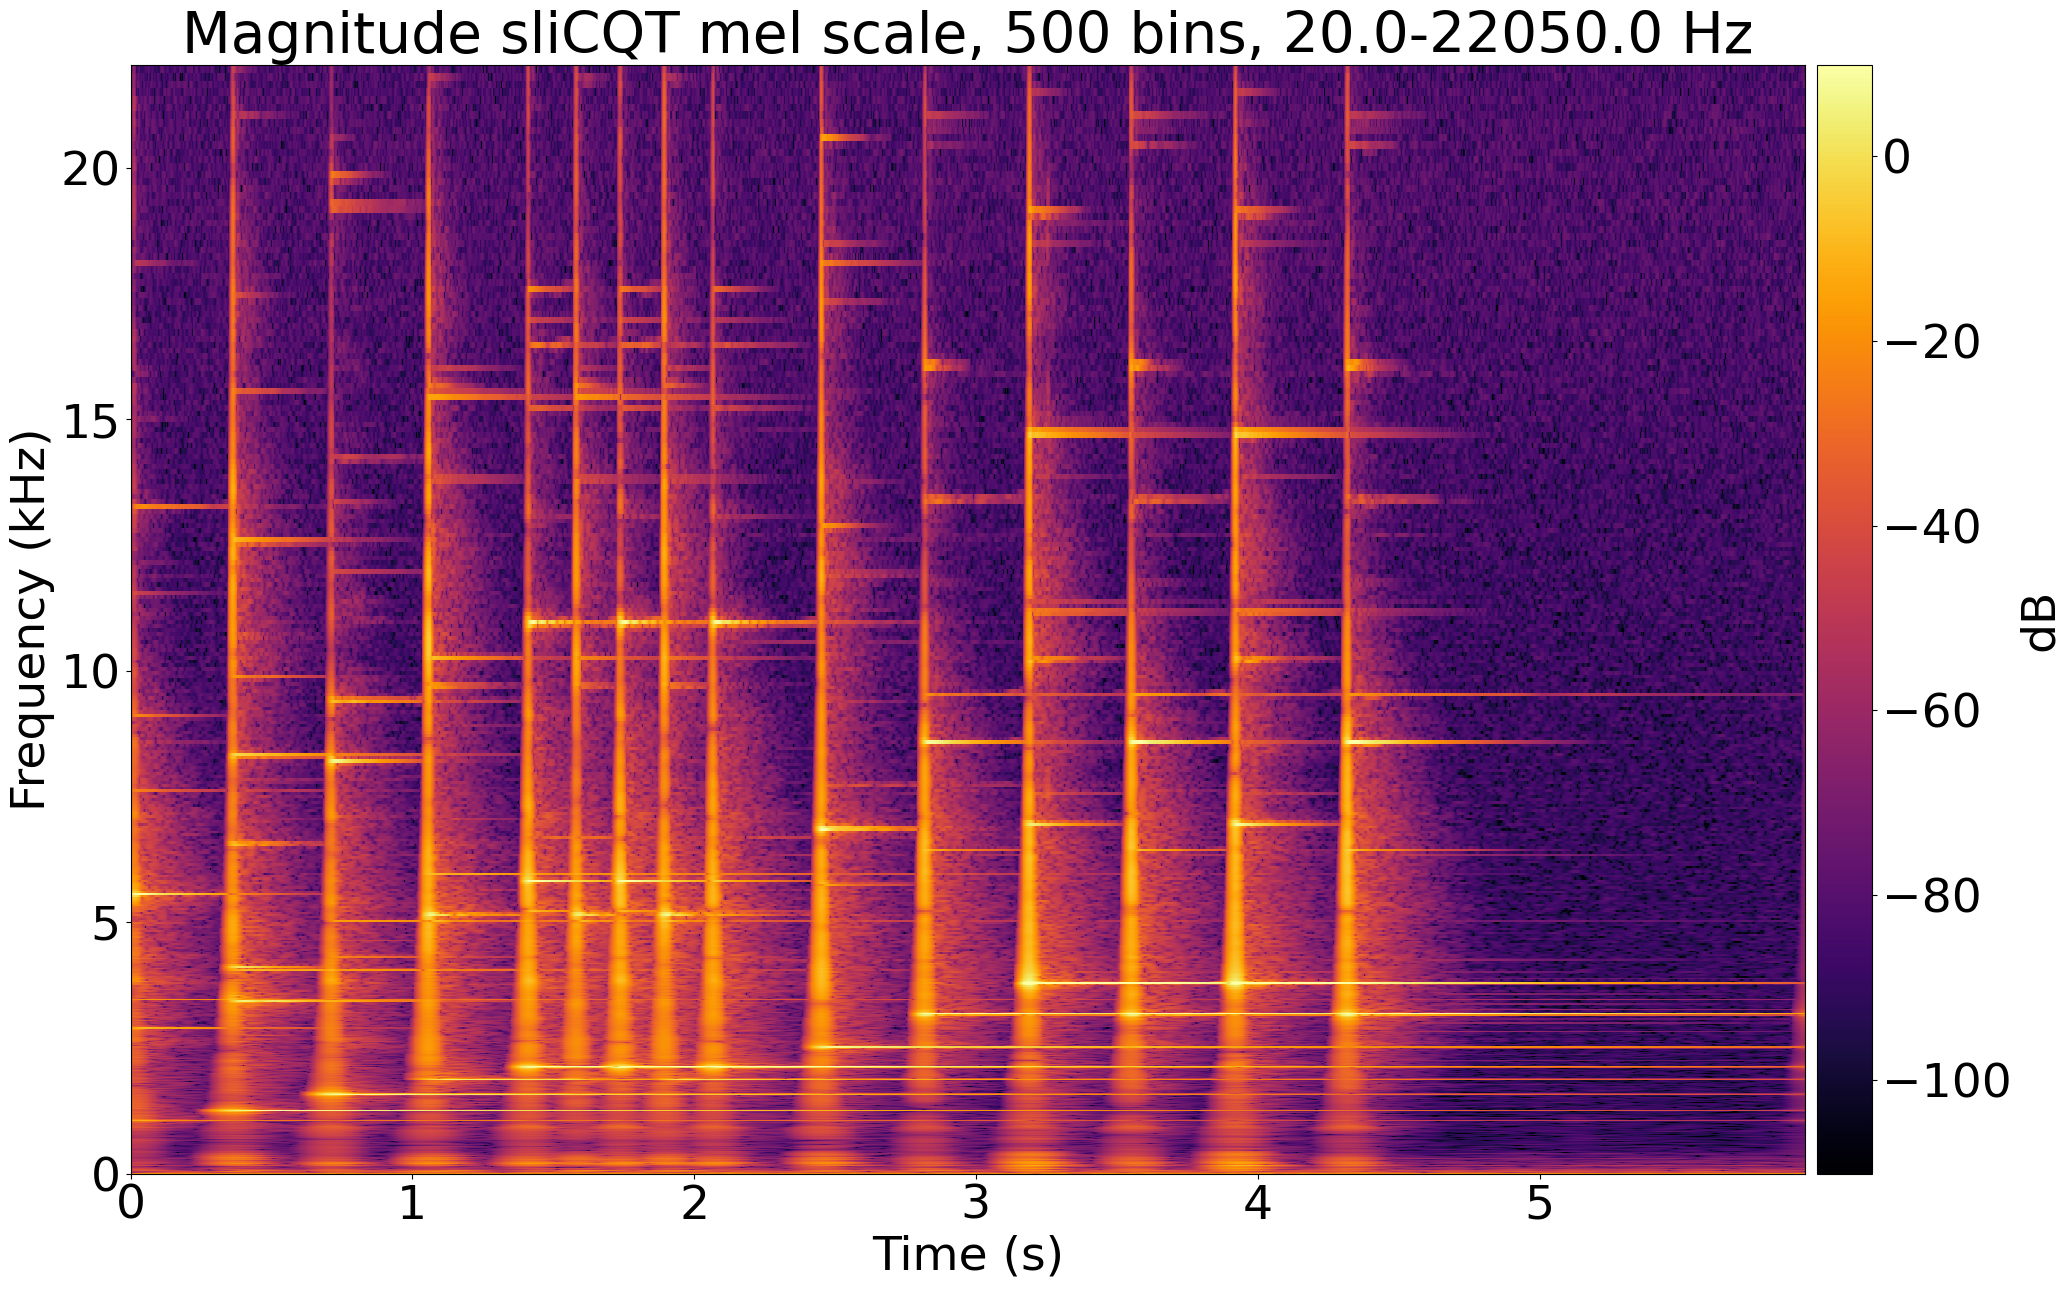
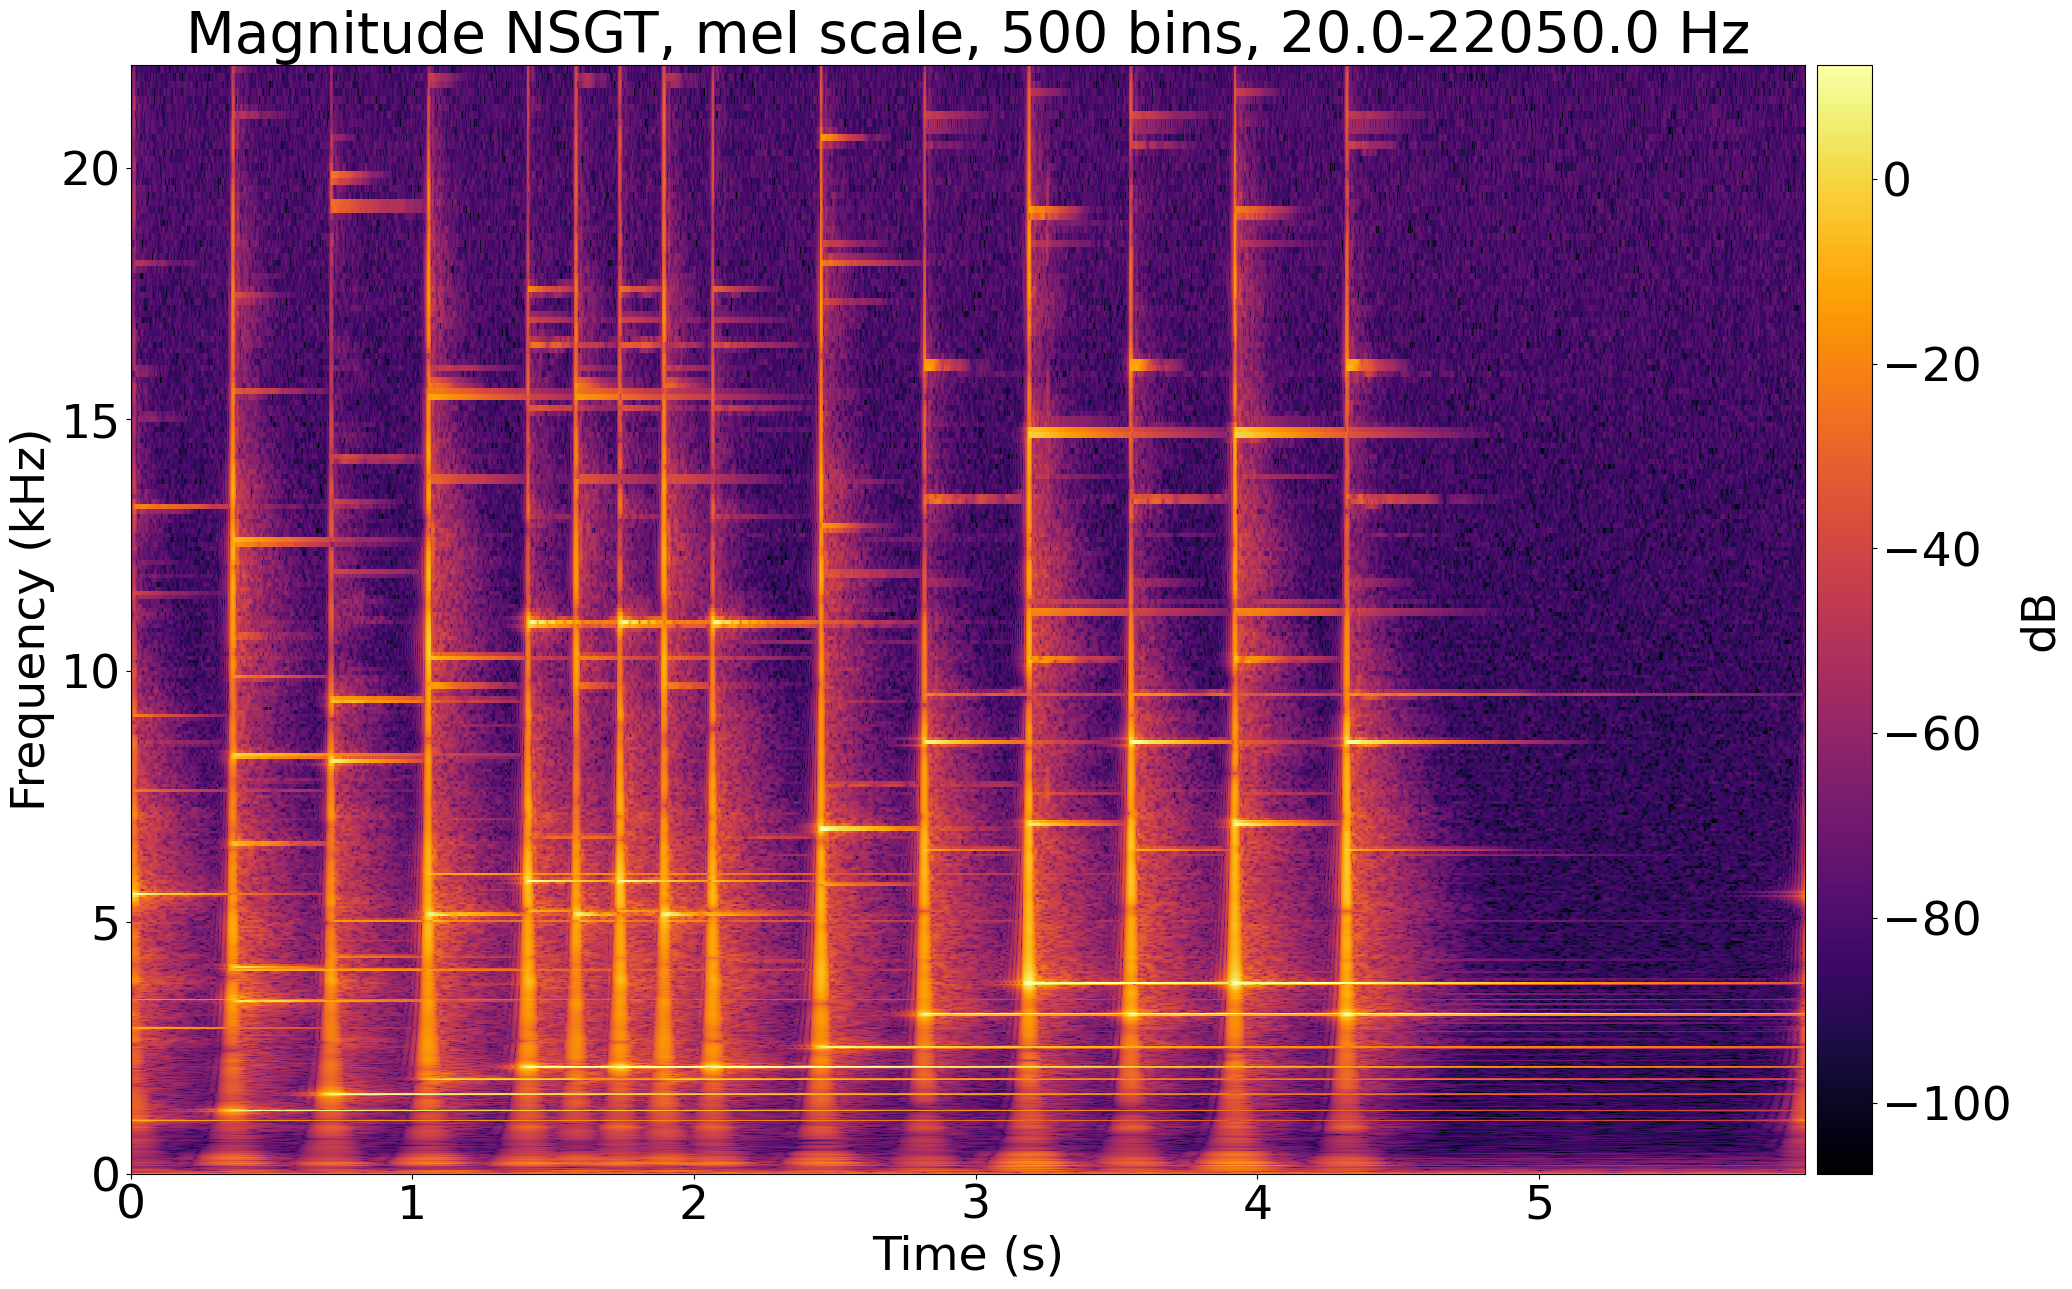
Redo Python NSGT/sliCQT plots and fix some MATLAB plot fonts

diff --git a/matlab/plot_things.m b/matlab/plot_things.m
@@ -14,14 +14,14 @@ duration = siglen/fs;
 dT = 1/fs;
 t = (0.0:dT:duration-dT)';
 
-figure;
-plot(t, sig);
-grid on;
-xlabel('time (s)');
-ylabel('amplitude');
-title('Glockenspiel waveform','FontWeight','Normal');
-set(gcf, 'Position', gcfPosition);
-exportgraphics(gcf,"../latex/images-gspi/glock_waveform.png","Resolution",dpiVar);
+% figure;
+% plot(t, sig);
+% grid on;
+% xlabel('time (s)');
+% ylabel('amplitude');
+% title('Glockenspiel waveform','FontWeight','Normal');
+% set(gcf, 'Position', gcfPosition);
+% exportgraphics(gcf,"../latex/images-gspi/glock_waveform.png","Resolution",dpiVar);
 
 N = 2048;
 y = fft(sig, N);                               % Compute DFT of x
@@ -37,16 +37,20 @@ figure;
 subplot(2,1,1)
 plot(f,m)
 title(sprintf('Magnitude DFT, %d points', N),'FontWeight','Normal');
+grid on;
 xlabel('frequency (Hz)');
 ylabel('|DFT|');
+set(gca, 'FontSize', 21); % smaller font on DFTs
 
 subplot(2,1,2)
 plot(f,p*180/pi)
 title(sprintf('Phase DFT, %d points', N),'FontWeight','Normal');
+grid on;
 xlabel('frequency (Hz)');
 ylabel('\angle DFT');
 
 set(gcf, 'Position', gcfPosition);
+set(gca, 'FontSize', 21); % smaller font on DFTs
 exportgraphics(gcf,sprintf("../latex/images-gspi/glock_dft_%d.png", N),"Resolution",dpiVar);
 
 N = siglen;
@@ -63,118 +67,123 @@ figure;
 subplot(2,1,1)
 plot(f,m)
 title(sprintf('Magnitude DFT, %d points', N),'FontWeight','Normal');
+grid on;
 xlabel('frequency (Hz)');
 ylabel('|DFT|');
+set(gca, 'FontSize', 21); % smaller font on DFTs
 
 subplot(2,1,2)
 plot(f,p*180/pi)
 title(sprintf('Phase DFT, %d points', N),'FontWeight','Normal');
+grid on;
 xlabel('frequency (Hz)');
 ylabel('\angle DFT');
 
 set(gcf, 'Position', gcfPosition);
+set(gca, 'FontSize', 21); % smaller font on DFTs
 exportgraphics(gcf,sprintf("../latex/images-gspi/glock_dft_%d.png", N),"Resolution",dpiVar);
 
-smallWin = 128;
-midWin = 2048;
-bigWin = 16384;
-
-figure;
-smallGauss=gausswin(smallWin);
-spectrogram(sig,smallGauss,smallWin/2,smallWin*2,fs,"yaxis");
-title("Glockenspiel, gausswin = 128",'FontWeight','Normal');
-
-set(gcf, 'Position', gcfPosition);
-exportgraphics(gcf,sprintf("../latex/images-gspi/glock_gauss_%d.png", smallWin),"Resolution",dpiVar);
-
-figure;
-midGauss=gausswin(midWin);
-spectrogram(sig,midGauss,midWin/2,midWin*2,fs,"yaxis");
-title("Glockenspiel, gausswin = 2048",'FontWeight','Normal');
-
-set(gcf, 'Position', gcfPosition);
-exportgraphics(gcf,sprintf("../latex/images-gspi/glock_gauss_%d.png", midWin),"Resolution",dpiVar);
-
-figure;
-bigGauss=gausswin(bigWin);
-spectrogram(sig,bigGauss,bigWin/2,bigWin*2,fs,"yaxis");
-title("Glockenspiel, gausswin = 16384",'FontWeight','Normal');
-
-set(gcf, 'Position', gcfPosition);
-exportgraphics(gcf,sprintf("../latex/images-gspi/glock_gauss_%d.png", bigWin),"Resolution",dpiVar);
-
-figure;
-smallHamm=hamming(smallWin);
-spectrogram(sig,smallHamm,smallWin/2,smallWin*2,fs,"yaxis");
-title("Glockenspiel, hammwin = 128",'FontWeight','Normal');
-
-set(gcf, 'Position', gcfPosition);
-exportgraphics(gcf,sprintf("../latex/images-gspi/glock_hamm_%d.png", smallWin),"Resolution",dpiVar);
-
-figure;
-midHamm=hamming(midWin);
-spectrogram(sig,midHamm,midWin/2,midWin*2,fs,"yaxis");
-title("Glockenspiel, hammwin = 2048",'FontWeight','Normal');
-
-set(gcf, 'Position', gcfPosition);
-exportgraphics(gcf,sprintf("../latex/images-gspi/glock_hamm_%d.png", midWin),"Resolution",dpiVar);
-
-figure;
-bigHamm=hamming(bigWin);
-spectrogram(sig,bigHamm,bigWin/2,bigWin*2,fs,"yaxis");
-title("Glockenspiel, hammwin = 16384",'FontWeight','Normal');
-
-set(gcf, 'Position', gcfPosition);
-exportgraphics(gcf,sprintf("../latex/images-gspi/glock_hamm_%d.png", bigWin),"Resolution",dpiVar);
+% smallWin = 128;
+% midWin = 2048;
+% bigWin = 16384;
+% 
+% figure;
+% smallGauss=gausswin(smallWin);
+% spectrogram(sig,smallGauss,smallWin/2,smallWin*2,fs,"yaxis");
+% title("Glockenspiel, gausswin = 128",'FontWeight','Normal');
+% 
+% set(gcf, 'Position', gcfPosition);
+% exportgraphics(gcf,sprintf("../latex/images-gspi/glock_gauss_%d.png", smallWin),"Resolution",dpiVar);
+% 
+% figure;
+% midGauss=gausswin(midWin);
+% spectrogram(sig,midGauss,midWin/2,midWin*2,fs,"yaxis");
+% title("Glockenspiel, gausswin = 2048",'FontWeight','Normal');
+% 
+% set(gcf, 'Position', gcfPosition);
+% exportgraphics(gcf,sprintf("../latex/images-gspi/glock_gauss_%d.png", midWin),"Resolution",dpiVar);
+% 
+% figure;
+% bigGauss=gausswin(bigWin);
+% spectrogram(sig,bigGauss,bigWin/2,bigWin*2,fs,"yaxis");
+% title("Glockenspiel, gausswin = 16384",'FontWeight','Normal');
+% 
+% set(gcf, 'Position', gcfPosition);
+% exportgraphics(gcf,sprintf("../latex/images-gspi/glock_gauss_%d.png", bigWin),"Resolution",dpiVar);
+% 
+% figure;
+% smallHamm=hamming(smallWin);
+% spectrogram(sig,smallHamm,smallWin/2,smallWin*2,fs,"yaxis");
+% title("Glockenspiel, hammwin = 128",'FontWeight','Normal');
+% 
+% set(gcf, 'Position', gcfPosition);
+% exportgraphics(gcf,sprintf("../latex/images-gspi/glock_hamm_%d.png", smallWin),"Resolution",dpiVar);
+% 
+% figure;
+% midHamm=hamming(midWin);
+% spectrogram(sig,midHamm,midWin/2,midWin*2,fs,"yaxis");
+% title("Glockenspiel, hammwin = 2048",'FontWeight','Normal');
+% 
+% set(gcf, 'Position', gcfPosition);
+% exportgraphics(gcf,sprintf("../latex/images-gspi/glock_hamm_%d.png", midWin),"Resolution",dpiVar);
+% 
+% figure;
+% bigHamm=hamming(bigWin);
+% spectrogram(sig,bigHamm,bigWin/2,bigWin*2,fs,"yaxis");
+% title("Glockenspiel, hammwin = 16384",'FontWeight','Normal');
+% 
+% set(gcf, 'Position', gcfPosition);
+% exportgraphics(gcf,sprintf("../latex/images-gspi/glock_hamm_%d.png", bigWin),"Resolution",dpiVar);
 
 figure;
 plot(hamming(2048)); hold on; plot(gausswin(2048)); legend('Hamming window', 'Gaussian window');
 title('2048-point windows; Hamming vs. Gaussian','FontWeight','Normal');
-xlim([0 2048]);
+xlim([-64 2048+64]);
+grid on;
 
 set(gcf, 'Position', gcfPosition);
 exportgraphics(gcf,"../latex/images-tftheory/hamming_vs_gauss.png","Resolution",dpiVar);
 
-figure;
-spectrogram(sig,4096,1024,4096,fs,'yaxis');
-title('Magnitude STFT, window=4096','FontWeight','Normal');
-
-set(gcf, 'Position', gcfPosition);
-exportgraphics(gcf,"../latex/images-gspi/glock_stft_4096.png","Resolution",dpiVar);
-
-figure;
-spectrogram(sig,1024,256,1024,fs,'yaxis');
-title('Magnitude STFT, window=1024','FontWeight','Normal');
-
-set(gcf, 'Position', gcfPosition);
-exportgraphics(gcf,"../latex/images-gspi/glock_stft_1024.png","Resolution",dpiVar);
-
-figure;
-spectrogram(sig,256,64,256,fs,'yaxis');
-title('Magnitude STFT, window=256','FontWeight','Normal');
-
-set(gcf, 'Position', gcfPosition);
-exportgraphics(gcf,"../latex/images-gspi/glock_stft_256.png","Resolution",dpiVar);
-
-figure;
-cqt(sig,'SamplingFrequency',fs,'BinsPerOctave',12);
-title('Magnitude CQT/CQ-NSGT, 12 bins-per-octave','FontWeight','Normal');
-
-set(gcf, 'Position', gcfPosition);
-exportgraphics(gcf,"../latex/images-gspi/glock_cqt12.png","Resolution",dpiVar);
-
-figure;
-cqt(sig,'SamplingFrequency',fs,'BinsPerOctave',24);
-title('Magnitude CQT/CQ-NSGT, 24 bins-per-octave','FontWeight','Normal');
-
-set(gcf, 'Position', gcfPosition);
-exportgraphics(gcf,"../latex/images-gspi/glock_cqt24.png","Resolution",dpiVar);
-
-figure;
-cqt(sig,'SamplingFrequency',fs,'BinsPerOctave',48);
-title('Magnitude CQT/CQ-NSGT, 48 bins-per-octave','FontWeight','Normal');
-
-set(gcf, 'Position', gcfPosition);
-exportgraphics(gcf,"../latex/images-gspi/glock_cqt48.png","Resolution",dpiVar);
+% figure;
+% spectrogram(sig,4096,1024,4096,fs,'yaxis');
+% title('Magnitude STFT, window=4096','FontWeight','Normal');
+% 
+% set(gcf, 'Position', gcfPosition);
+% exportgraphics(gcf,"../latex/images-gspi/glock_stft_4096.png","Resolution",dpiVar);
+% 
+% figure;
+% spectrogram(sig,1024,256,1024,fs,'yaxis');
+% title('Magnitude STFT, window=1024','FontWeight','Normal');
+% 
+% set(gcf, 'Position', gcfPosition);
+% exportgraphics(gcf,"../latex/images-gspi/glock_stft_1024.png","Resolution",dpiVar);
+% 
+% figure;
+% spectrogram(sig,256,64,256,fs,'yaxis');
+% title('Magnitude STFT, window=256','FontWeight','Normal');
+% 
+% set(gcf, 'Position', gcfPosition);
+% exportgraphics(gcf,"../latex/images-gspi/glock_stft_256.png","Resolution",dpiVar);
+% 
+% figure;
+% cqt(sig,'SamplingFrequency',fs,'BinsPerOctave',12);
+% title('Magnitude CQT/CQ-NSGT, 12 bins-per-octave','FontWeight','Normal');
+% 
+% set(gcf, 'Position', gcfPosition);
+% exportgraphics(gcf,"../latex/images-gspi/glock_cqt12.png","Resolution",dpiVar);
+% 
+% figure;
+% cqt(sig,'SamplingFrequency',fs,'BinsPerOctave',24);
+% title('Magnitude CQT/CQ-NSGT, 24 bins-per-octave','FontWeight','Normal');
+% 
+% set(gcf, 'Position', gcfPosition);
+% exportgraphics(gcf,"../latex/images-gspi/glock_cqt24.png","Resolution",dpiVar);
+% 
+% figure;
+% cqt(sig,'SamplingFrequency',fs,'BinsPerOctave',48);
+% title('Magnitude CQT/CQ-NSGT, 48 bins-per-octave','FontWeight','Normal');
+% 
+% set(gcf, 'Position', gcfPosition);
+% exportgraphics(gcf,"../latex/images-gspi/glock_cqt48.png","Resolution",dpiVar);
 
 close all;

diff --git a/latex/ch2_background.tex b/latex/ch2_background.tex
@@ -60,7 +60,7 @@ Throughout this section, the description of the Fourier Transform of acoustic si
 
 \begin{figure}[ht]
 	\centering
-	\includegraphics[width=0.825\textwidth]{./images-gspi/glock_waveform.png}
+	\includegraphics[width=0.725\textwidth]{./images-gspi/glock_waveform.png}
 	\caption{Glockenspiel waveform}
 	\label{fig:glockwaveform}
 \end{figure}
@@ -209,7 +209,7 @@ Figure \ref{fig:stfts} shows the Gabor transform alongside the STFT using a popu
 \begin{figure}[ht]
 	\centering
 	\includegraphics[width=0.8\textwidth]{./images-tftheory/hamming_vs_gauss.png}
-	\caption{2048-sample Hamming and Gaussian windows compared}
+	\caption{2048-sample Hamming and Gaussian windows}
 	\label{fig:gaussvshamm}
 \end{figure}
 
@@ -381,7 +381,7 @@ The NSGT coefficients for a signal of length $L$ are given by an FFT of length $
 
 We believe that the general NSGT is more interesting to study than the CQ-NSGT (Constant-Q NSGT), as it can be constructed with nonuniform frequency scales besides the Constant-Q scale, such as the psychoacoustic mel and Bark scales (\cite[Chapter~4]{melbook}), or the Variable-Q scale based on the psychoacoustic ERBlet transform (\cite{variableq1, variableq2}).
 
-Figures \ref{fig:bunchansgts1} and \ref{fig:bunchansgts2} show several different configurations of the NSGT of the glockenspiel signal, to demonstrate the diversity of the transform. The plots are generated from my fork\footnote{\url{https://github.com/sevagh/nsgt}} of the reference Python NSGT library. My modifications to the library will be described further in section \ref{sec:methodology}. A high and low frequency resolution NSGT, using 100 and 500 total frequency bins respectively, is generated for each of the following 4 frequency scales: mel, Bark, Constant-Q, and Variable-Q, using a frequency range of 20--22050 Hz. 20 Hz is the accepted lowest frequency of human hearing (\cite{moore}), and 22050 Hz is the Nyquist frequency (or maximum signal frequency) of the MUSDB18-HQ sample rate 44100 Hz. In practice, the minimum and maximum frequencies can be also customized for the signal under study. For the Variable-Q scale, the fixed frequency offset applied is 15 Hz.  Details of the frequency scales used to generate the NSGT spectrograms are shown in table \ref{table:nsgtfreqsandqs}.
+Figure \ref{fig:bunchansgts} shows several different configurations of the NSGT of the glockenspiel signal, to demonstrate the diversity of the transform. The plots are generated from my fork\footnote{\url{https://github.com/sevagh/nsgt}} of the reference Python NSGT library. My modifications to the library will be described further in section \ref{sec:methodology}. A high and low frequency resolution NSGT, using 100 and 500 total frequency bins respectively, is generated for each of the following 4 frequency scales: mel, Bark, Constant-Q, and Variable-Q, using a frequency range of 20--22050 Hz. For the Variable-Q scale, the fixed frequency offset applied is 15 Hz.  Details of the frequency scales used to generate the NSGT spectrograms are shown in table \ref{table:nsgtfreqsandqs}.
 
 \begin{figure}[ht]
 	\centering
@@ -390,21 +390,15 @@ Figures \ref{fig:bunchansgts1} and \ref{fig:bunchansgts2} show several different
 	\subfloat[NSGT, Constant-Q scale, 500 bins]{\includegraphics[width=0.475\textwidth]{./images-gspi/gspi_nsgt_cqlog_500.png}}\\
 	\subfloat[NSGT, Variable-Q scale, 100 bins]{\includegraphics[width=0.475\textwidth]{./images-gspi/gspi_nsgt_vqlog_100.png}}
 	\hspace{0.1em}
-	\subfloat[NSGT, Variable-Q scale, 500 bins]{\includegraphics[width=0.475\textwidth]{./images-gspi/gspi_nsgt_vqlog_500.png}}
-	\caption{Spectrograms of the glockenspiel signal using the NSGT with a low (100 bins) and high (500 bins) frequency resolution and the constant- and Variable-Q scales. The frequency range for each shown scale is 20--22050 Hz, and there is an offset of 15 Hz per band for the Variable-Q scale}
-	\label{fig:bunchansgts1}
-\end{figure}
-
-\begin{figure}[ht]
-	\centering
+	\subfloat[NSGT, Variable-Q scale, 500 bins]{\includegraphics[width=0.475\textwidth]{./images-gspi/gspi_nsgt_vqlog_500.png}}\\
 	\subfloat[NSGT, mel scale, 100 bins]{\includegraphics[width=0.475\textwidth]{./images-gspi/gspi_nsgt_mel_100.png}}
 	\hspace{0.1em}
 	\subfloat[NSGT, mel scale, 500 bins]{\includegraphics[width=0.475\textwidth]{./images-gspi/gspi_nsgt_mel_500.png}}\\
 	\subfloat[NSGT, Bark scale, 100 bins]{\includegraphics[width=0.475\textwidth]{./images-gspi/gspi_nsgt_bark_100.png}}
 	\hspace{0.1em}
 	\subfloat[NSGT, Bark scale, 500 bins]{\includegraphics[width=0.475\textwidth]{./images-gspi/gspi_nsgt_bark_500.png}}\\
-	\caption{Spectrograms of the glockenspiel signal using the NSGT with a low (100 bins) and high (500 bins) frequency resolution and the mel and Bark psychoacoustic scales. The frequency range for each shown scale is 20--22050 Hz}
-	\label{fig:bunchansgts2}
+	\caption{Different NSGT spectrograms of the glockenspiel signal}
+	\label{fig:bunchansgts}
 \end{figure}
 
 \begin{table}[ht]
@@ -545,8 +539,9 @@ Slices have a 50\% overlap with adjacent slices. The noninvertibility of the hal
 
 \begin{figure}[ht]
 	\centering
-	\subfloat[Adjacent slices placed side-by-side. Note the incorrect doubling of the duration]{\includegraphics[width=\textwidth]{./images-gspi/gspi_overlap_flatten.png}}\\
-	\subfloat[Adjacent slices with 50\%-overlap-add]{\includegraphics[width=\textwidth]{./images-gspi/gspi_overlap_proper.png}}
+	\subfloat[Adjacent slices placed side-by-side]{\includegraphics[width=0.475\textwidth]{./images-gspi/gspi_overlap_flatten.png}}
+	\hspace{0.1em}
+	\subfloat[Adjacent slices with 50\%-overlap-add]{\includegraphics[width=0.475\textwidth]{./images-gspi/gspi_overlap_proper.png}}
 	\caption{sliCQT spectrograms demonstrating the slice half-overlap}
 	\label{fig:slicqoverlaps}
 \end{figure}

diff --git a/latex/ch3_methodology.tex b/latex/ch3_methodology.tex
@@ -303,13 +303,14 @@ We believe that due to necessity of the 50\% overlap to create a meaningful spec
 
 \begin{figure}[ht]
 	\centering
-	\subfloat[NSGT (non-sliced), length is exact same as input signal. No overlap-add required]{\includegraphics[width=\textwidth]{./images-gspi/gspi_nsgt_mel_nooverlap.png}}\\
-	\subfloat[sliCQT with minimum automatic sllen (6744) and 50\% overlap-add]{\includegraphics[width=\textwidth]{./images-gspi/gspi_nsgt_mel_perfect_slice.png}}
+	\subfloat[NSGT (non-sliced), length is exact same as input signal. No overlap-add required]{\includegraphics[width=0.475\textwidth]{./images-gspi/gspi_nsgt_mel_nooverlap.png}}
+	\hspace{0.1em}
+	\subfloat[sliCQT with minimum automatic sllen (6744) and 50\% overlap-add]{\includegraphics[width=0.475\textwidth]{./images-gspi/gspi_nsgt_mel_perfect_slice.png}}
 	\caption{NSGT spectrograms for the mel scale with 96 bins in 20--22050 Hz}
 	\label{fig:overlappedspectrograms}
 \end{figure}
 
-We note a few details. Firstly, the overlap-add procedure for the matrix form of the sliCQT operates on the whole matrix, while for the ragged transform, it needs to be applied to each of the tensors in the list. Next, observe that there is a slight difference in the time axis duration between the NSGT and sliCQT, resulting from the slicing and overlap-add procedure.
+The overlap-add procedure for the matrix form of the sliCQT operates on the whole matrix, and for the ragged transform, it needs to be applied to each of the tensors in the list.
 
 \newpagefill
 

diff --git a/latex/ch4_experiment.tex b/latex/ch4_experiment.tex
@@ -162,8 +162,9 @@ The sliCQT chosen by one run of the script that produced the best median SDR use
 
 \begin{figure}[ht]
 	\centering
-	\subfloat[Good sliCQT -- Bark, 262 bins, 32.9--22050 Hz]{\includegraphics[width=\textwidth]{./images-gspi/slicqt_good.png}}\\
-	\subfloat[Bad sliCQT -- Constant-Q/log, 142 bins, 129.7--22050 Hz]{\includegraphics[width=\textwidth]{./images-gspi/slicqt_bad.png}}
+	\subfloat[Good sliCQT -- Bark, 262 bins, 32.9--22050 Hz]{\includegraphics[width=0.475\textwidth]{./images-gspi/slicqt_good.png}}
+	\hspace{0.1em}
+	\subfloat[Bad sliCQT -- Constant-Q/log, 142 bins, 129.7--22050 Hz]{\includegraphics[width=0.475\textwidth]{./images-gspi/slicqt_bad.png}}
 	\caption{sliCQTs from the MPI oracle hyperparameter search}
 	\label{fig:bipolarslicqs}
 \end{figure}

diff --git a/nsgt_spec_plotter/nsgt/nsgt/plot.py b/nsgt_spec_plotter/nsgt/nsgt/plot.py
@@ -47,7 +47,7 @@ def spectrogram(c, fs, coef_factor, transform_name, freqs, frames, sliced=True, 
     title = f'Magnitude {transform_name}'
 
     if slicq_name != '':
-        title += f' {slicq_name}'
+        title += f', {slicq_name}'
 
     axs.set_title(title)
 
